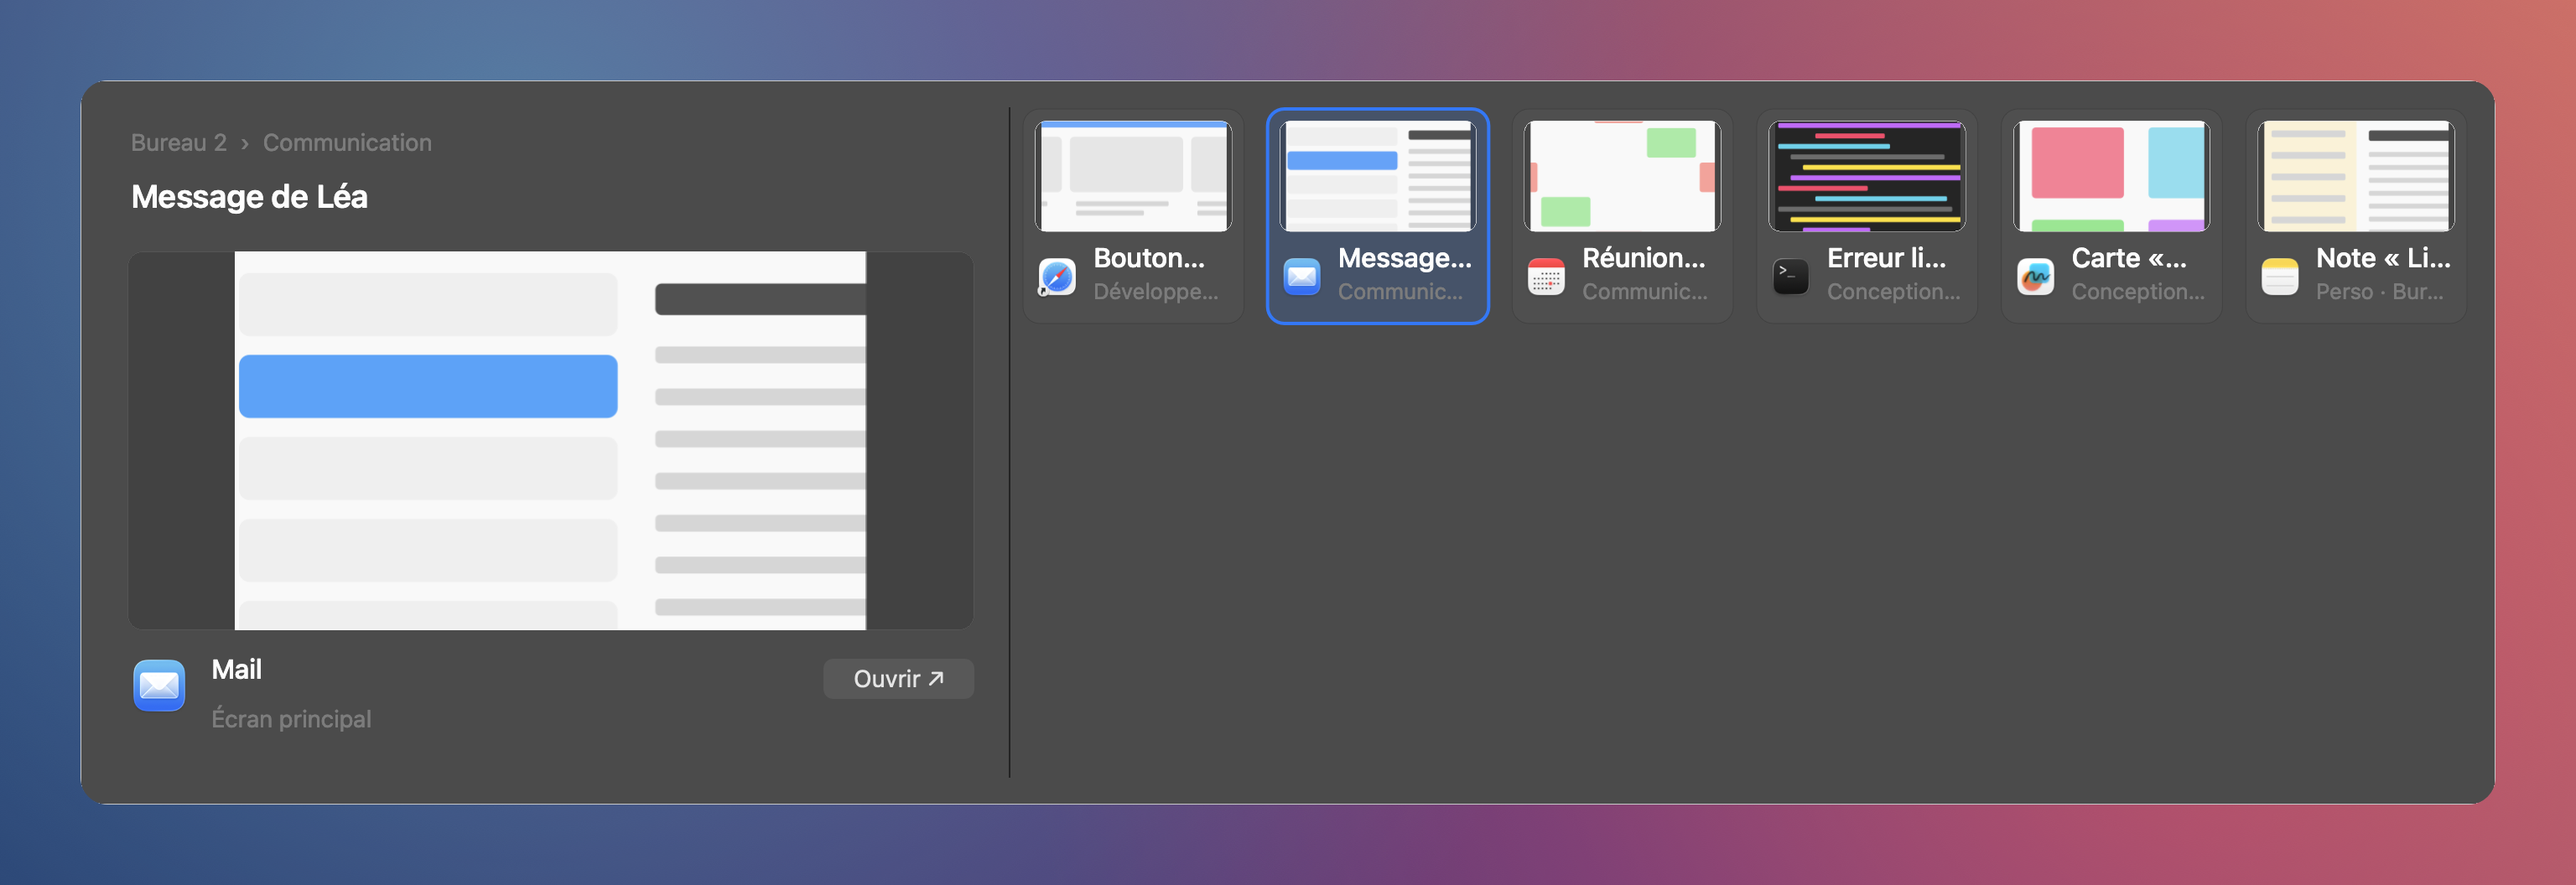
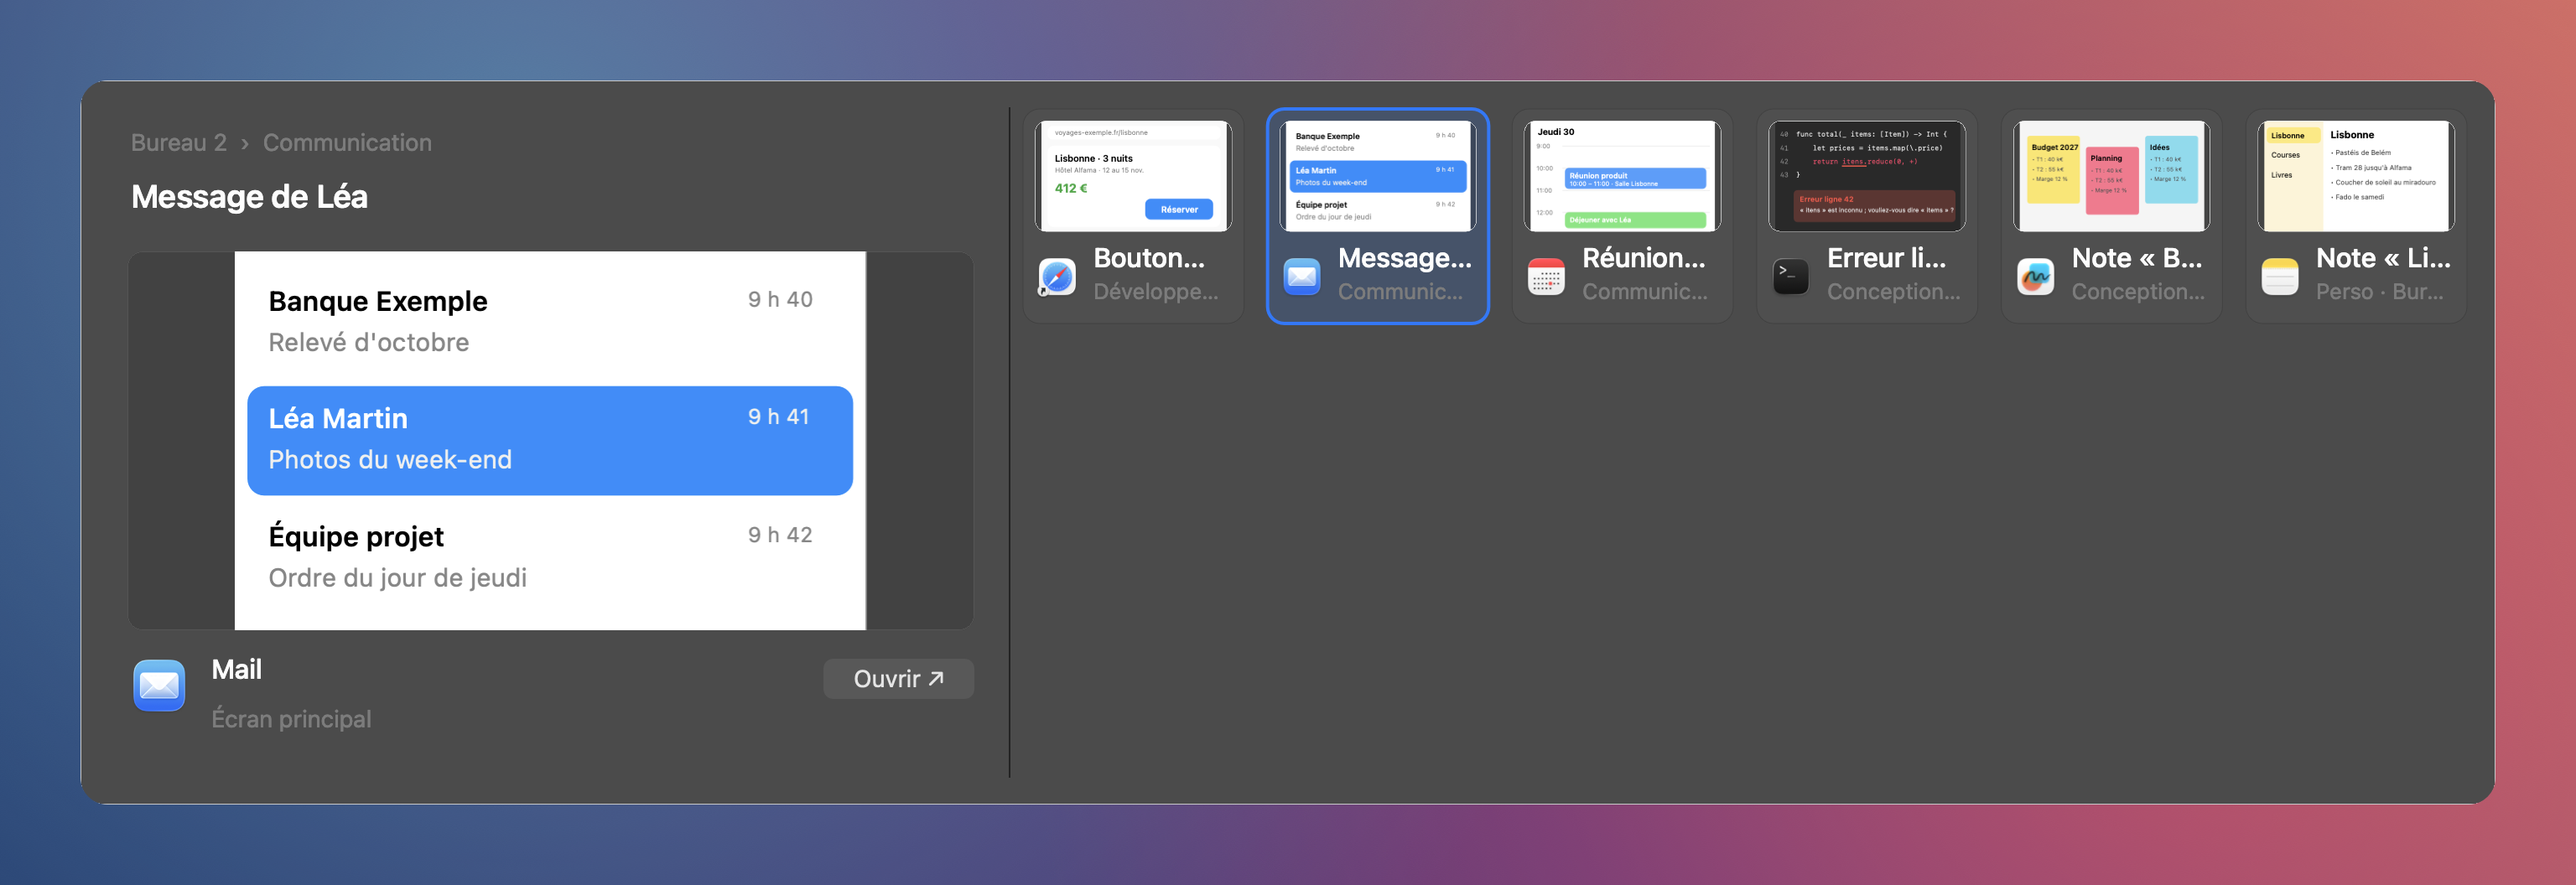
feat(139): Maj seule recule dans les sélecteurs et images des zones lisibles

Changed region(s): [[0.0938, 0.3125, 0.3438, 0.7188], [0.4062, 0.125, 0.9688, 0.3125], [0.0938, 0.5938, 0.1875, 0.6562]]

diff --git a/Tests/RoadieDaemonTests/Spec124DocScreenshotsTests.swift b/Tests/RoadieDaemonTests/Spec124DocScreenshotsTests.swift
@@ -471,32 +471,118 @@ struct Spec124DocScreenshots {
         try await eachLanguage { try await zoneSwitcherImage() }
     }
 
-    /// Photo d'une zone : 300 × 180 points découpés dans la fausse fenêtre, autour de `origin` (coin haut gauche).
-    private static func zonePhoto(_ look: Look, at origin: CGPoint) -> NSImage {
-        let window = mock(look)
-        let crop = CGSize(width: 600, height: 360)
-        return NSImage(size: CGSize(width: 300, height: 180), flipped: false) { rect in
-            window.draw(in: rect, from: CGRect(x: origin.x, y: 800 - origin.y - crop.height, width: crop.width, height: crop.height),
-                        operation: .copy, fraction: 1)
+    /// Photo d'une zone : petite scène inventée, avec du texte lisible (session 139 : les blocs gris ne se comprenaient
+    /// pas), à l'échelle d'une vraie photo de zone (300 × 180 points). Aucun contenu réel.
+    private enum ZoneScene { case booking, inbox, agenda, code, board, note }
+
+    private static func zonePhoto(_ scene: ZoneScene) -> NSImage {
+        NSImage(size: CGSize(width: 300, height: 180), flipped: true) { rect in
+            func text(_ string: String, _ x: CGFloat, _ y: CGFloat, size: CGFloat = 12, weight: NSFont.Weight = .regular,
+                      color: NSColor = .black, mono: Bool = false) {
+                let font = mono ? NSFont.monospacedSystemFont(ofSize: size, weight: weight) : NSFont.systemFont(ofSize: size, weight: weight)
+                (string as NSString).draw(at: CGPoint(x: x, y: y), withAttributes: [.font: font, .foregroundColor: color])
+            }
+            func box(_ frame: CGRect, _ color: NSColor, radius: CGFloat = 6) {
+                color.setFill()
+                NSBezierPath(roundedRect: frame, xRadius: radius, yRadius: radius).fill()
+            }
+            let grey = NSColor(calibratedWhite: 0.45, alpha: 1)
+            switch scene {
+            case .booking:
+                box(rect, NSColor(calibratedWhite: 0.97, alpha: 1), radius: 0)
+                box(CGRect(x: 10, y: 8, width: 280, height: 22), .white, radius: 8)
+                text("voyages-exemple.fr/lisbonne", 22, 11, size: 11, color: grey)
+                box(CGRect(x: 10, y: 40, width: 280, height: 132), .white, radius: 10)
+                text(tr("Lisbonne · 3 nuits", "Lisbon · 3 nights"), 22, 50, size: 15, weight: .semibold)
+                text(tr("Hôtel Alfama · 12 au 15 nov.", "Alfama Hotel · Nov 12–15"), 22, 72, size: 11, color: grey)
+                text("412 €", 22, 96, size: 20, weight: .bold, color: NSColor.systemGreen.blended(withFraction: 0.3, of: .black) ?? .systemGreen)
+                box(CGRect(x: 168, y: 126, width: 110, height: 34), .systemBlue, radius: 9)
+                text(tr("Réserver", "Book"), 194, 134, size: 14, weight: .semibold, color: .white)
+            case .inbox:
+                box(rect, .white, radius: 0)
+                let rows = [(tr("Banque Exemple", "Example Bank"), tr("Relevé d'octobre", "October statement"), false),
+                            ("Léa Martin", tr("Photos du week-end", "Weekend photos"), true),
+                            (tr("Équipe projet", "Project team"), tr("Ordre du jour de jeudi", "Thursday's agenda"), false)]
+                for (index, row) in rows.enumerated() {
+                    let y = 8 + CGFloat(index) * 56
+                    if row.2 { box(CGRect(x: 6, y: y, width: 288, height: 52), .systemBlue, radius: 8) }
+                    let main: NSColor = row.2 ? .white : .black, soft: NSColor = row.2 ? NSColor(calibratedWhite: 0.92, alpha: 1) : grey
+                    text(row.0, 16, y + 7, size: 13, weight: .semibold, color: main)
+                    text(row.1, 16, y + 27, size: 12, color: soft)
+                    text(tr("9 h 4\(index)", "9:4\(index)"), 244, y + 8, size: 10, color: soft)
+                }
+            case .agenda:
+                box(rect, .white, radius: 0)
+                text(tr("Jeudi 30", "Thursday 30"), 12, 8, size: 14, weight: .bold)
+                for (index, hour) in ["9:00", "10:00", "11:00", "12:00"].enumerated() {
+                    let y = 40 + CGFloat(index) * 36
+                    text(hour, 10, y - 6, size: 10, color: grey)
+                    NSColor(calibratedWhite: 0.88, alpha: 1).setFill()
+                    CGRect(x: 52, y: y, width: 240, height: 1).fill()
+                }
+                box(CGRect(x: 56, y: 76, width: 230, height: 34), NSColor.systemBlue.withAlphaComponent(0.85))
+                text(tr("Réunion produit", "Product meeting"), 64, 80, size: 12, weight: .semibold, color: .white)
+                text(tr("10:00 – 11:00 · Salle Lisbonne", "10:00 – 11:00 · Lisbon room"), 64, 95, size: 10, color: .white)
+                box(CGRect(x: 56, y: 148, width: 230, height: 26), NSColor.systemGreen.withAlphaComponent(0.8))
+                text(tr("Déjeuner avec Léa", "Lunch with Léa"), 64, 153, size: 11, weight: .semibold, color: .white)
+            case .code:
+                box(rect, NSColor(calibratedWhite: 0.12, alpha: 1), radius: 0)
+                let lines = ["func total(_ items: [Item]) -> Int {", "    let prices = items.map(\\.price)", "    return itens.reduce(0, +)", "}"]
+                for (index, line) in lines.enumerated() {
+                    let y = 14 + CGFloat(index) * 22
+                    text("\(40 + index)", 8, y, size: 11, color: NSColor(calibratedWhite: 0.45, alpha: 1), mono: true)
+                    text(line, 34, y, size: 11, color: index == 2 ? NSColor.systemPink : NSColor(calibratedWhite: 0.88, alpha: 1), mono: true)
+                }
+                NSColor.systemRed.setFill()
+                CGRect(x: 108, y: 72, width: 40, height: 2).fill()
+                box(CGRect(x: 30, y: 112, width: 262, height: 52), NSColor.systemRed.withAlphaComponent(0.25))
+                text(tr("Erreur ligne 42", "Error on line 42"), 40, 118, size: 12, weight: .semibold, color: .systemRed)
+                text(tr("« itens » est inconnu ; vouliez-vous dire « items » ?", "“itens” is unknown; did you mean “items”?"), 40, 138,
+                     size: 10, color: NSColor(calibratedWhite: 0.9, alpha: 1))
+            case .board:
+                box(rect, NSColor(calibratedWhite: 0.95, alpha: 1), radius: 0)
+                for (index, note) in [(tr("Budget 2027", "2027 budget"), NSColor.systemYellow), (tr("Planning", "Schedule"), NSColor.systemPink),
+                                      (tr("Idées", "Ideas"), NSColor.systemTeal)].enumerated() {
+                    let x = 12 + CGFloat(index) * 96
+                    box(CGRect(x: x, y: 24 + CGFloat(index % 2) * 18, width: 86, height: 110), note.1.withAlphaComponent(0.75), radius: 4)
+                    text(note.0, x + 8, 34 + CGFloat(index % 2) * 18, size: 12, weight: .semibold)
+                    for line in 0..<3 {
+                        text(["• T1 : 40 k€", "• T2 : 55 k€", "• Marge 12 %"][line], x + 8, 56 + CGFloat(index % 2) * 18 + CGFloat(line) * 16, size: 9,
+                             color: NSColor(calibratedWhite: 0.25, alpha: 1))
+                    }
+                }
+            case .note:
+                box(rect, .white, radius: 0)
+                box(CGRect(x: 0, y: 0, width: 96, height: 180), NSColor(calibratedRed: 0.99, green: 0.95, blue: 0.80, alpha: 1), radius: 0)
+                for (index, title) in [tr("Lisbonne", "Lisbon"), tr("Courses", "Groceries"), tr("Livres", "Books")].enumerated() {
+                    if index == 0 { box(CGRect(x: 4, y: 10, width: 88, height: 26), NSColor.systemYellow.withAlphaComponent(0.6)) }
+                    text(title, 12, 15 + CGFloat(index) * 32, size: 12, weight: index == 0 ? .semibold : .regular)
+                }
+                text(tr("Lisbonne", "Lisbon"), 108, 12, size: 16, weight: .bold)
+                for (index, line) in [tr("• Pastéis de Belém", "• Pastéis de Belém"), tr("• Tram 28 jusqu'à Alfama", "• Tram 28 to Alfama"),
+                                      tr("• Coucher de soleil au miradouro", "• Sunset at the miradouro"), tr("• Fado le samedi", "• Fado on Saturday")].enumerated() {
+                    text(line, 108, 44 + CGFloat(index) * 24, size: 11, color: NSColor(calibratedWhite: 0.2, alpha: 1))
+                }
+            }
             return true
         }
     }
 
     private func zoneSwitcherImage() async throws {
         let windowsEntries = entries()
-        func zone(_ look: Look, _ title: String, _ origin: CGPoint) -> (ZoneRecord, NSImage)? {
+        func zone(_ look: Look, _ scene: ZoneScene, _ title: String) -> (ZoneRecord, NSImage)? {
             guard let index = windows.firstIndex(where: { $0.look == look }) else { return nil }
             let record = ZoneRecord(appName: windows[index].app, bundleID: "doc.\(index)", pid: Int32(9000 + index), windowID: UInt32(index + 1),
-                                    windowTitle: windows[index].title, title: title, relative: Rect(x: origin.x / 2, y: origin.y / 2, width: 80, height: 24),
+                                    windowTitle: windows[index].title, title: title, relative: Rect(x: 100, y: 100, width: 80, height: 24),
                                     windowWidth: 640, windowHeight: 400, date: Date())
-            return (record, Self.zonePhoto(look, at: origin))
+            return (record, Self.zonePhoto(scene))
         }
-        let zones = [zone(.browser, tr("Bouton « Réserver »", "“Book” button"), CGPoint(x: 360, y: 300)),
-                     zone(.mail, tr("Message de Léa", "Message from Léa"), CGPoint(x: 20, y: 60)),
-                     zone(.calendar, tr("Réunion de jeudi", "Thursday meeting"), CGPoint(x: 520, y: 180)),
-                     zone(.code, tr("Erreur ligne 42", "Error on line 42"), CGPoint(x: 30, y: 220)),
-                     zone(.board, tr("Carte « Budget »", "“Budget” card"), CGPoint(x: 420, y: 90)),
-                     zone(.notes, tr("Note « Lisbonne »", "“Lisbon” note"), CGPoint(x: 0, y: 60))].compactMap { $0 }
+        let zones = [zone(.browser, .booking, tr("Bouton « Réserver »", "“Book” button")),
+                     zone(.mail, .inbox, tr("Message de Léa", "Message from Léa")),
+                     zone(.calendar, .agenda, tr("Réunion produit", "Product meeting")),
+                     zone(.code, .code, tr("Erreur ligne 42", "Error on line 42")),
+                     zone(.board, .board, tr("Note « Budget 2027 »", "“2027 budget” note")),
+                     zone(.notes, .note, tr("Note « Lisbonne »", "“Lisbon” note"))].compactMap { $0 }
         let built = WindowSwitcherZones.build(records: zones.map(\.0), windows: windowsEntries)
         var images: [WindowID: NSImage] = [:]
         for (entry, photo) in zip(built.entries, zones.map(\.1)) { images[entry.id] = photo }

diff --git a/Sources/RoadieDaemon/WindowSwitcherController.swift b/Sources/RoadieDaemon/WindowSwitcherController.swift
@@ -134,6 +134,8 @@ private final class WindowSwitcherSession {
     /// Profil `zones` (session 136) : zones montrées, par identifiant d'entrée, et leur ordre.
     var zones: [WindowID: SwitcherZone] = [:]
     var zoneRecentIDs: [WindowID] = []
+    /// Maj seule recule d'une carte (session 139).
+    var shiftTap = SwitcherShiftTap()
 
     init(
         id: Int,
@@ -277,6 +279,7 @@ public final class WindowSwitcherController {
         )
         nextSessionID += 1
         let newSession = WindowSwitcherSession(id: nextSessionID, profile: profile, config: config, required: required, state: state)
+        newSession.shiftTap = SwitcherShiftTap(initiallyDown: held.contains(.shift))
         session = newSession
         hotkeys?.holdEscape(true)
 
@@ -352,6 +355,12 @@ public final class WindowSwitcherController {
         if session.state.modifiers(held: isHeld) {
             validate(session)
             return
+        }
+        // Maj relâchée seule, touche du sélecteur toujours tenue : une carte en arrière, comme dans AltTab. Pas pendant
+        // la saisie d'une recherche (majuscules), ni si le raccourci contient lui-même Maj.
+        if session.shiftTap.update(shift: held.contains(.shift)), isHeld, !session.required.contains(.shift),
+           session.panel?.isSearchEditing != true {
+            advance(backwards: true)
         }
         if !session.panelVisible, session.state.phase == .acquiring,
            Date().timeIntervalSince(session.startedAt) > 0.15 {
@@ -454,6 +463,7 @@ public final class WindowSwitcherController {
 
     private func advance(backwards: Bool) {
         guard let session else { return }
+        session.shiftTap.noteStep()
         guard session.state.step(backwards: backwards) else { return }
         session.actionFailed = false
         session.model?.next(backwards: backwards)

diff --git a/Tests/RoadieDaemonTests/Spec139ShiftTapTests.swift b/Tests/RoadieDaemonTests/Spec139ShiftTapTests.swift
@@ -1,0 +1,29 @@
+import Testing
+@testable import RoadieDaemon
+
+/// Session 139 : Maj seule recule d'une carte dans ⌘Tab et ⌥Tab, comme dans AltTab, sans doubler Maj + Tab.
+struct Spec139ShiftTapTests {
+    /// Suite d'états de Maj (et de pas notés) ; rend les relâchements qui reculent.
+    private func run(_ tap: inout SwitcherShiftTap, _ events: [String]) -> [Bool] {
+        events.map { event in
+            if event == "pas" { tap.noteStep(); return false }
+            return tap.update(shift: event == "maj")
+        }
+    }
+
+    @Test func shiftAloneStepsBackOnRelease() {
+        var tap = SwitcherShiftTap()
+        #expect(run(&tap, ["rien", "maj", "rien", "rien"]) == [false, false, true, false])
+    }
+
+    @Test func shiftTabStepsOnlyOnce() {
+        var tap = SwitcherShiftTap()
+        // Maj + Tab : le pas de Tab suffit ; un pas sans Maj ne compte pas pour le Maj suivant.
+        #expect(run(&tap, ["maj", "pas", "rien", "pas", "maj", "rien"]) == [false, false, false, false, false, true])
+    }
+
+    @Test func shiftHeldAtOpeningIsTheOpeningStep() {
+        var tap = SwitcherShiftTap(initiallyDown: true)
+        #expect(run(&tap, ["maj", "rien", "maj", "rien"]) == [false, false, false, true])
+    }
+}

diff --git a/Sources/RoadieDaemon/WindowSwitcherInteraction.swift b/Sources/RoadieDaemon/WindowSwitcherInteraction.swift
@@ -29,3 +29,28 @@ enum SwitcherNavigation {
         setting == "always" || (setting != "never" && automatic)
     }
 }
+
+/// Maj seule pendant le sélecteur (session 139), comme dans AltTab : relâchée sans pas entre-temps (Tab, flèche),
+/// elle recule d'une carte. Maj + Tab garde son seul recul : un pas pendant que Maj est tenue annule le sien.
+struct SwitcherShiftTap: Equatable {
+    private var down = false
+    private var stepped = false
+
+    /// `initiallyDown` : Maj déjà tenue à l'ouverture (⌘⇧Tab), qui compte comme un pas.
+    init(initiallyDown: Bool = false) {
+        down = initiallyDown
+        stepped = initiallyDown
+    }
+
+    /// Un pas du sélecteur pendant que Maj est tenue. O(1).
+    mutating func noteStep() {
+        if down { stepped = true }
+    }
+
+    /// État de Maj relevé ; vrai quand Maj vient d'être relâchée seule. O(1).
+    mutating func update(shift: Bool) -> Bool {
+        defer { down = shift }
+        if shift, !down { stepped = false }
+        return !shift && down && !stepped
+    }
+}

diff --git a/specs/139-maj-et-images/validation.md b/specs/139-maj-et-images/validation.md
@@ -1,0 +1,11 @@
+# Session 139 - Maj seule pour reculer, images réalistes
+
+**Date** : 30 octobre 2026.
+
+- Maj seule, relâchée sans Tab ni flèche pendant qu'elle était tenue, recule d'une carte dans Cmd+Tab et Option+Tab,
+  comme dans AltTab ; Maj + Tab garde un seul recul ; inactive pendant la saisie d'une recherche ou si le raccourci
+  contient Maj (`SwitcherShiftTap`, tests `Spec139ShiftTapTests`).
+- Capture `zone-switcher.png` (EN, FR) redessinée avec des scènes inventées lisibles (réservation, boîte de réception,
+  agenda, code, notes adhésives, note de voyage) au lieu de blocs gris.
+- Suite complète : 2 353 tests dans 351 suites. Roadie installé, santé 5/5, signature roadied-cert.
+- Non vérifié : Maj seule au clavier réel (frappes simulées refusées).

diff --git a/CHANGELOG.md b/CHANGELOG.md
@@ -5,6 +5,10 @@ jour et les limites connues ; les README décrivent la version courante.
 
 ## Non publié
 
+### Nouveautés
+
+- Maj seule recule d'une carte dans Cmd+Tab et Option+Tab, comme dans AltTab (Maj + Tab inchangé).
+
 ## 0.12.0 - 2026-10-30
 
 ### Nouveautés
